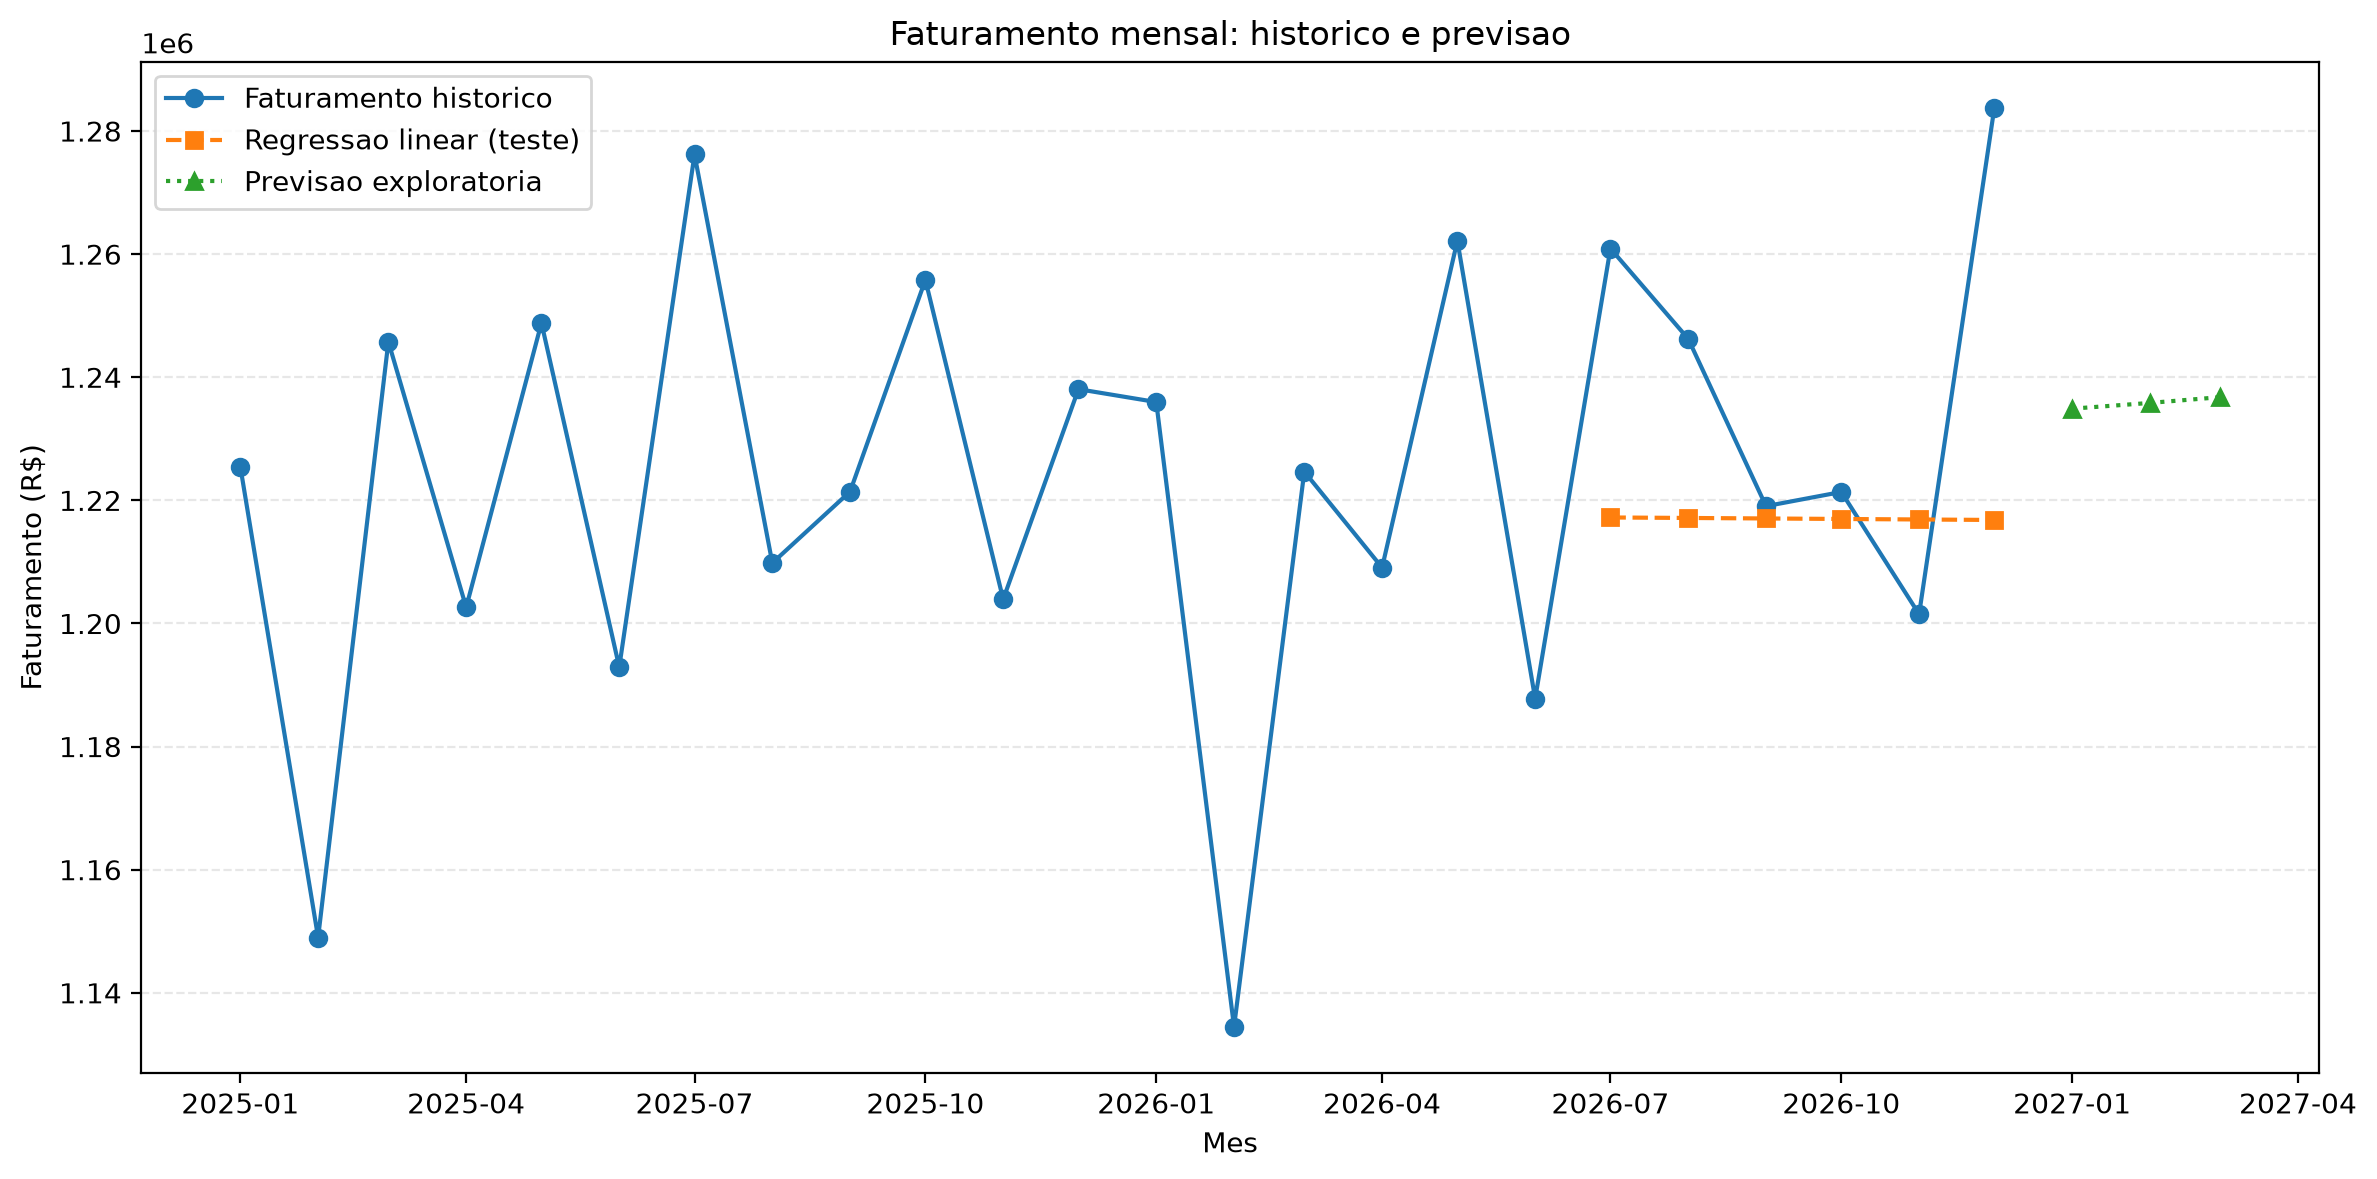
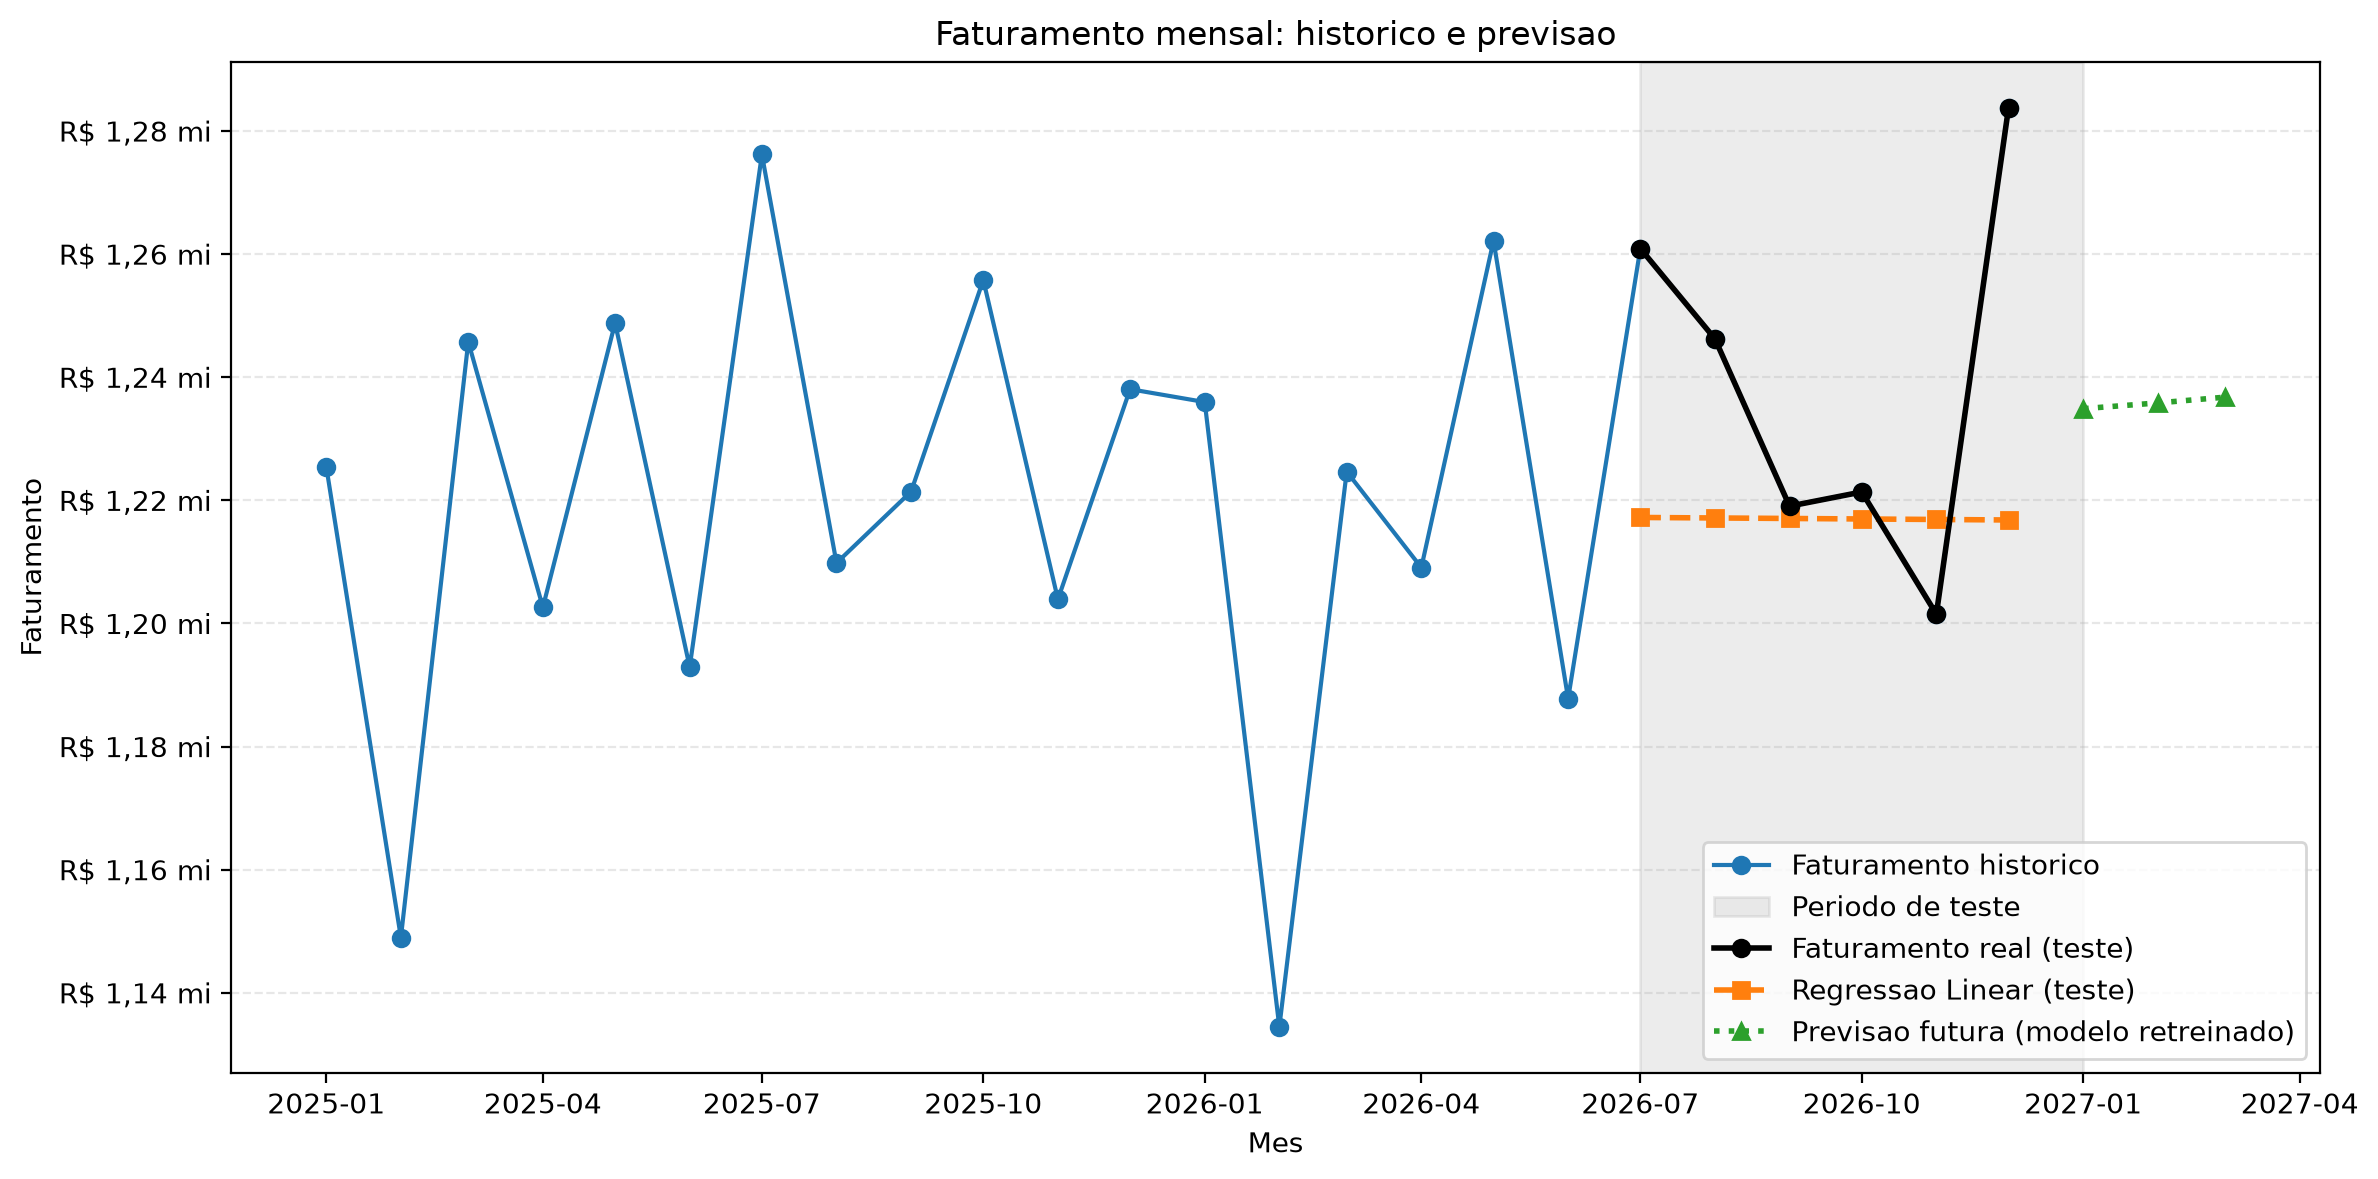
Melhora grafico de previsao de faturamento

diff --git a/machine_learning/previsao_faturamento.py b/machine_learning/previsao_faturamento.py
@@ -250,44 +250,91 @@ def avaliar_modelo(df):
 # GERACAO DO GRAFICO
 # ============================================================
 
+
 def gerar_grafico(df, resultados, futuro):
-    arquivo_saida = (
-        PASTA_SAIDA / "previsao_faturamento.png"
-    )
+    from matplotlib.ticker import FuncFormatter
 
-    plt.figure(figsize=(12, 6))
+    arquivo_saida = PASTA_SAIDA / "previsao_faturamento.png"
 
-    plt.plot(
+    fig, ax = plt.subplots(figsize=(12, 6))
+
+    # Faturamento historico completo
+    ax.plot(
         df["mes"],
         df["faturamento"],
         marker="o",
-        label="Faturamento historico"
+        linewidth=1.5,
+        label="Faturamento historico",
+        zorder=3
     )
 
-    plt.plot(
+    # Periodo reservado para teste
+    inicio_teste = resultados["mes"].min()
+    fim_teste = resultados["mes"].max()
+    fim_faixa = fim_teste + pd.offsets.MonthBegin(1)
+
+    ax.axvspan(
+        inicio_teste,
+        fim_faixa,
+        color="gray",
+        alpha=0.15,
+        label="Periodo de teste",
+        zorder=1
+    )
+
+    # Valores reais apenas no periodo de teste
+    ax.plot(
+        resultados["mes"],
+        resultados["real"],
+        marker="o",
+        linestyle="-",
+        linewidth=2,
+        color="black",
+        label="Faturamento real (teste)",
+        zorder=5
+    )
+
+    # Previsoes da regressao linear no periodo de teste
+    ax.plot(
         resultados["mes"],
         resultados["regressao_linear"],
         marker="s",
         linestyle="--",
-        label="Regressao linear (teste)"
+        linewidth=2,
+        color="tab:orange",
+        label="Regressao Linear (teste)",
+        zorder=4
     )
-
-    plt.plot(
+    # Previsao futura usando o modelo retreinado com todo o historico
+    ax.plot(
         futuro["mes"],
         futuro["faturamento_previsto"],
         marker="^",
         linestyle=":",
-        label="Previsao exploratoria"
+        linewidth=2,
+        color="tab:green",
+        label="Previsao futura (modelo retreinado)",
+        zorder=4
     )
 
-    plt.title("Faturamento mensal: historico e previsao")
-    plt.xlabel("Mes")
-    plt.ylabel("Faturamento (R$)")
-    plt.grid(axis="y", linestyle="--", alpha=0.3)
-    plt.legend()
-    plt.tight_layout()
+    # Formatar o eixo Y em milhoes de reais
+    ax.yaxis.set_major_formatter(
+        FuncFormatter(
+            lambda valor, pos: (
+                f"R$ {valor / 1_000_000:.2f} mi"
+            ).replace(".", ",")
+        )
+    )
 
-    plt.savefig(
+    ax.set_title("Faturamento mensal: historico e previsao")
+    ax.set_xlabel("Mes")
+    ax.set_ylabel("Faturamento")
+    ax.grid(axis="y", linestyle="--", alpha=0.3)
+    ax.legend(loc="best")
+
+    fig.tight_layout()
+
+    fig.savefig(
         arquivo_saida,
         dpi=200,
         bbox_inches="tight"
@@ -296,6 +343,7 @@ def gerar_grafico(df, resultados, futuro):
     print(f"\nGrafico salvo em: {arquivo_saida}")
 
     plt.show()
+
 
 
 # ============================================================
